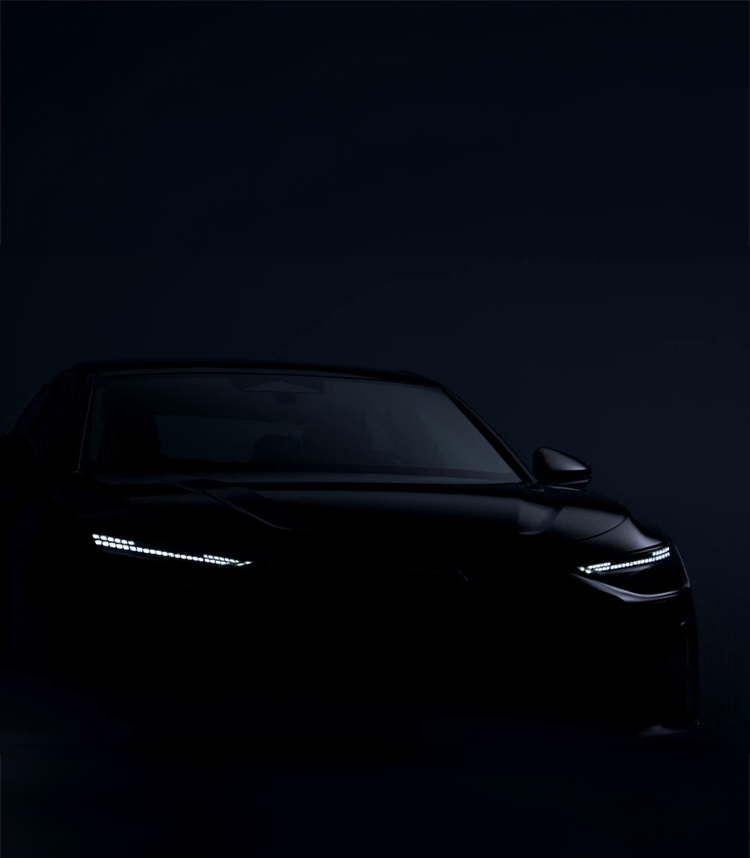
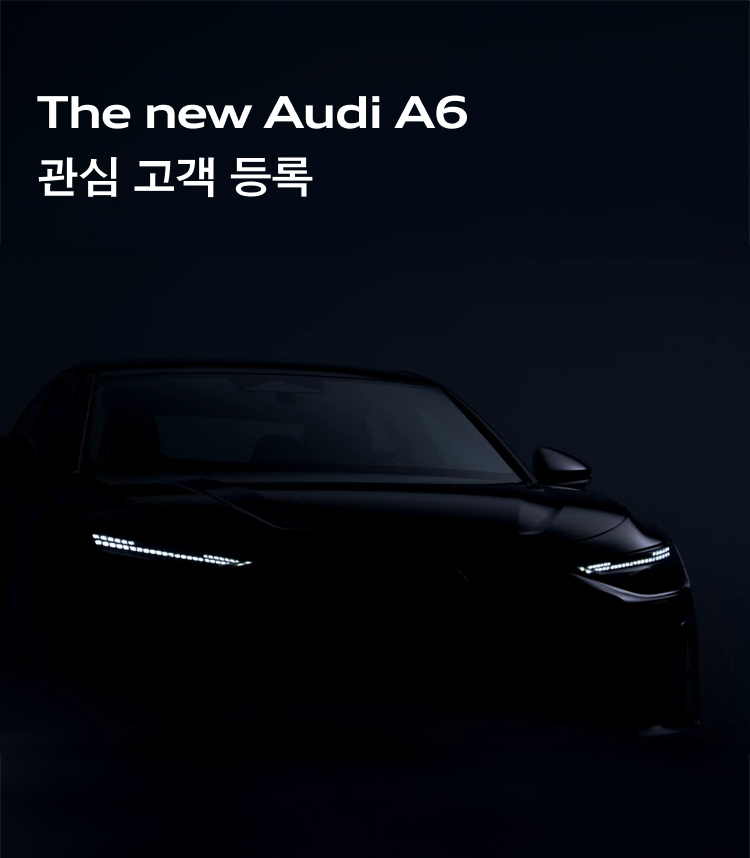
수정사항반영 260331

Changed region(s): [[0.0613, 0.0909, 0.644, 0.1515], [0.184, 0.1818, 0.4293, 0.2424], [0.0307, 0.1818, 0.1533, 0.2424]]

diff --git a/A6_reservation/assets/css/event.css b/A6_reservation/assets/css/event.css
@@ -1562,6 +1562,15 @@ body {
 }
 
 @media screen and (max-width: 768px) {
+
+  .pc {display:none;}
+  .mo {display:block;}
+
+  
+  .type-q6 .event-header .logo img {
+    width:96px;
+    height:32px;
+  }
   .font-bold {
     font-weight: bold;
   }
@@ -2036,7 +2045,7 @@ body {
 
   .type-q6 .event-header {
     width: 100%;
-    height: 137px;
+    height: 60px;
     background-color: #fff;
     display: flex;
     justify-content: space-between;
@@ -2051,13 +2060,16 @@ body {
     font-size: 23px;
     font-weight: bold;
   }
-  .type-q6 .event-header .logo {
-    /* padding-top: 15px; */
+  /* .type-q6 .event-header .logo {
+    
     text-align: right;
     position: absolute;
     top:20px;
     right:16px;  
-  }
+  } */
+   .type-q6 .event-header .logo {
+    padding-top:0;
+   }
   .notice-text {
     margin-bottom: 15px;
     font-size: 14px;
@@ -2503,7 +2515,7 @@ body {
         font-weight: 400;
         line-height: 120%;
         letter-spacing: -1px;
-        background: #494949;
+        background: #FF0019;
         box-shadow: 0 4px 8px 0 rgba(0, 0, 0, 0.40);
     }
     #showroomSection {
@@ -2802,7 +2814,7 @@ body {
     letter-spacing: -0.65px;
     line-height:120%;
     right:15px;
-    bottom:15px;
+    bottom:40px;
   }
 
   .tabs.tab-slider {
@@ -2833,7 +2845,7 @@ body {
     color: #fff;
   }
   .inner-cont2 {
-    margin-top: 50px;
+    margin-top: 0px;
     margin-bottom:30px;
   }  
   .card img {

diff --git a/A6_reservation/A6ReservationMobile.html b/A6_reservation/A6ReservationMobile.html
@@ -308,11 +308,12 @@
                     <img src="//www.audikoreaevent.co.kr/resources/q6EventInvitation/responsive/img/black-logo.png" alt="">
                 </a>
             </p> -->
-            <p>The new Audi A6<br> 관심 고객 등록</p>
+            <!-- <p>The new Audi A6<br> 관심 고객 등록</p> -->
         </div>
         <div class="logo">
             <a href="#" style="margin-left: auto;">
-                <img src="//www.audikoreaevent.co.kr/resources/q6EventInvitation/responsive/img/black-logo.png" alt="">
+                <img class="pc" src="//www.audikoreaevent.co.kr/resources/q6EventInvitation/responsive/img/black-logo.png" alt="">
+                <img class="mo" src="./assets/img/black-logo-mo.png" alt="">
             </a>
         </div>
     </section>

diff --git a/A6_reservation/A6ReservationPopup.html b/A6_reservation/A6ReservationPopup.html
@@ -293,7 +293,7 @@
 <div id="wrap" class="type-q6">
     <section class="event-header">
         <div class="header-text-box">            
-            <p>The new Audi A6<br>관심 고객 등록</p>
+            <!-- <p>The new Audi A6<br>관심 고객 등록</p> -->
         </div>
         <div class="logo">
             <a href="#"><img src="//www.audikoreaevent.co.kr/resources/q6EventInvitation/responsive/img/black-logo.png" alt=""></a>
